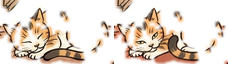
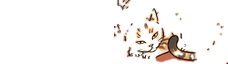
Fix Ming scriptorium pose layering

diff --git a/tools/review/index.html b/tools/review/index.html
@@ -49,8 +49,10 @@ function cardHtml(a){return `<article class="card" id="${cardId(a.key)}"><div cl
 async function decide(a,card,status){const note=$('textarea',card).value;const r=await fetch('/api/decision',{method:'POST',headers:{'content-type':'application/json'},body:JSON.stringify({key:a.key,status,note})});if(!r.ok){alert('儲存失敗');return}await load()}
 function setup(a){const card=$(`#${cardId(a.key)}`);if(!card)return;$('.approve',card).onclick=()=>decide(a,card,'approved');$('.reject',card).onclick=()=>decide(a,card,'rejected');const body=$('.card-body',card);if(a.kind==='bg')bgCard(a,body);else if(a.kind==='sprite')spriteCard(a,body);else if(a.kind==='pose')poseCard(a,body);else handCard(a,body)}
 const point=(ctx,p,color)=>{ctx.fillStyle=color;ctx.beginPath();ctx.arc(p.x,p.y,5,0,Math.PI*2);ctx.fill()};
+function renderPoseComposite(map,bg,img,actor,minPixels){
+const fw=img.width/2,fh=img.height,depth=actor.depth??actor.y,plate=document.createElement('canvas');plate.width=map.width;plate.height=map.height;const pc=plate.getContext('2d');pc.drawImage(bg,0,0,map.width,map.height);const platePixels=pc.getImageData(0,0,map.width,map.height).data,composite=document.createElement('canvas');composite.width=map.width;composite.height=map.height;const cc=composite.getContext('2d');cc.drawImage(bg,0,0,map.width,map.height);const drawForeground=f=>{cc.save();cc.beginPath();f.polygon.forEach((p,i)=>i?cc.lineTo(p.x,p.y):cc.moveTo(p.x,p.y));cc.closePath();cc.clip();cc.drawImage(bg,0,0,map.width,map.height);cc.restore()};const foregrounds=[...map.foreground].sort((a,b)=>a.baseline-b.baseline);foregrounds.filter(f=>f.baseline<=depth).forEach(drawForeground);cc.drawImage(img,fw,0,fw,fh,actor.x-fw/2,actor.y-fh,fw,fh);foregrounds.filter(f=>f.baseline>depth).forEach(drawForeground);const pixels=cc.getImageData(0,0,map.width,map.height).data,frame=document.createElement('canvas');frame.width=fw;frame.height=fh;const fc=frame.getContext('2d');fc.drawImage(img,0,0,fw,fh,0,0,fw,fh);const frame0=fc.getImageData(0,0,fw,fh).data;fc.clearRect(0,0,fw,fh);fc.drawImage(img,fw,0,fw,fh,0,0,fw,fh);const frame1=fc.getImageData(0,0,fw,fh).data;let idleOpaque=0,total=0,visible=0;for(let y=0;y<fh;y++)for(let x=0;x<fw;x++){const i=(y*fw+x)*4;if(frame0[i+3]>0)idleOpaque++;if(frame1[i+3]<128)continue;const sx=Math.round(actor.x-fw/2+x),sy=Math.round(actor.y-fh+y);if(sx<0||sy<0||sx>=map.width||sy>=map.height)continue;const j=(sy*map.width+sx)*4,sourceDelta=Math.max(Math.abs(frame1[i]-platePixels[j]),Math.abs(frame1[i+1]-platePixels[j+1]),Math.abs(frame1[i+2]-platePixels[j+2]));if(sourceDelta<=30)continue;total++;if(Math.max(Math.abs(pixels[j]-platePixels[j]),Math.abs(pixels[j+1]-platePixels[j+1]),Math.abs(pixels[j+2]-platePixels[j+2]))>0)visible++}const ok=idleOpaque===0&&total>=minPixels&&visible===total,preview=document.createElement('figure'),canvas=document.createElement('canvas'),caption=document.createElement('figcaption');preview.className='cell';canvas.width=240;canvas.height=Math.round(240*map.height/map.width);canvas.getContext('2d').drawImage(composite,0,0,canvas.width,canvas.height);caption.textContent=`${actor.id} · frame 1 ${visible}/${total} changed visible`;preview.append(canvas,caption);return{ok,text:`${ok?'PASS':'FAIL'} pose ${actor.id}: frame 0 ${idleOpaque} px · ${visible}/${total} changed pixels visible`,preview}}
 function bgCard(a,body){const d=a.data,m=d.map;body.innerHTML=`<div class="overlay">${[['walk','步行區'],['blocked','阻擋區'],['triggers','互動點'],['exits','出口'],['anchors','錨點'],['foreground','前景'],['actors','角色'],['stamps','玩家站位測試']].map(([k,l])=>`<label><input type="checkbox" data-layer="${k}" checked> ${l}</label>`).join('')}</div><div class="canvas-wrap"><canvas class="scene-canvas" width="${m.width}" height="${m.height}"></canvas></div><h3>互動站位／頁框硬檢查</h3><ul class="check-list stamp-checks"></ul><h3>原畫裁切 vs 遊戲比例（±2%）</h3><div class="scale-compare"></div>${d.manifest?.sourceImageUrl?`<h3>畫面來源與遊戲成品</h3><div class="source-pair"><figure><img src="${d.manifest.sourceImageUrl}"><figcaption>clean edit / source</figcaption></figure><figure><img src="${d.backgroundUrl}"><figcaption>遊戲使用圖</figcaption></figure></div>`:''}<details><summary>提示詞／清單註記／原始素材</summary><p>${esc(d.manifest?.comment||'')}</p><pre>${esc(d.manifest?.prompt||'找不到對應 manifest prompt')}</pre>${d.manifest?.rawUrl?`<a href="${d.manifest.rawUrl}">開啟 pano 原始素材</a>`:''}</details><p class="muted">比例沿用 Actor.sync：baseScale = cast.height / frameHeight；depth = scaleFar + (scaleNear-scaleFar) × t。站位沿用 Field.target 的 REACH=${d.reach} 探針與 FOOT footprint。</p>`;
-const canvas=$('canvas',body),ctx=canvas.getContext('2d'),bg=new Image(),actorImageCache=new Map(),checks=[];bg.onload=draw;bg.src=d.backgroundUrl;body.querySelectorAll('[data-layer]').forEach(x=>x.onchange=draw);
+const canvas=$('canvas',body),ctx=canvas.getContext('2d'),bg=new Image(),actorImageCache=new Map(),checks=[];const poseSection=document.createElement('section');poseSection.innerHTML='<h3>Pose frame 1 over plate and foregrounds</h3><div class="grid pose-composites"></div>';$('.stamp-checks',body).insertAdjacentElement('afterend',poseSection);const poseComposites=$('.pose-composites',poseSection);bg.onload=draw;bg.src=d.backgroundUrl;body.querySelectorAll('[data-layer]').forEach(x=>x.onchange=draw);
 const inside=(p,poly)=>{let yes=false;for(let i=0,j=poly.length-1;i<poly.length;j=i++){const a=poly[i],b=poly[j];if((a.y>p.y)!==(b.y>p.y)&&p.x<(b.x-a.x)*(p.y-a.y)/(b.y-a.y)+a.x)yes=!yes}return yes};
 const footOk=p=>m.walkable.some(poly=>[{x:p.x-14,y:p.y-5},{x:p.x+14,y:p.y-5},{x:p.x-14,y:p.y},{x:p.x+14,y:p.y},{x:p.x,y:p.y}].every(q=>inside(q,poly)))&&!m.blocked.some(poly=>inside(p,poly));
 function draw(){ctx.clearRect(0,0,canvas.width,canvas.height);ctx.drawImage(bg,0,0);const enabled=k=>$(`[data-layer="${k}"]`,body).checked;const bounds=m.walkable.flat().reduce((b,p)=>({top:Math.min(b.top,p.y),bottom:Math.max(b.bottom,p.y)}),{top:Infinity,bottom:-Infinity});checks.length=0;
@@ -64,12 +66,13 @@ const imageFor=id=>d.actors.find(x=>x.id===id),depth=y=>m.scaleFar+(m.scaleNear-
 const drawActor=(id,x,y,face='right',label=id,checkFoot=false)=>{const a=imageFor(id);if(!a?.imageUrl)return null;let img=actorImageCache.get(a.imageUrl);if(!img){img=new Image();img.onload=draw;img.src=a.imageUrl;actorImageCache.set(a.imageUrl,img)}if(!img.complete)return null;const pose=a.member.sheet==='pose',side=a.member.sheet==='side',cols=pose?2:side?3:4,rows=pose?1:side?2:4,fw=img.width/cols,fh=img.height/rows,row=pose?0:side?(face==='left'?0:1):({down:0,left:1,right:2,up:3}[face]??0),frame=1,scale=pose?1:(a.member.height||110)/fh*depth(y),oy=pose?1:.96,sx=frame*fw,sy=row*fh;ctx.drawImage(img,sx,sy,fw,fh,x-fw*scale/2,y-fh*scale*oy,fw*scale,fh*scale);let c=document.createElement('canvas');c.width=fw;c.height=fh;const q=c.getContext('2d');q.drawImage(img,sx,sy,fw,fh,0,0,fw,fh);const pix=q.getImageData(0,0,fw,fh).data;let l=fw,t=fh,r=-1,b=-1;for(let yy=0;yy<fh;yy++)for(let xx=0;xx<fw;xx++)if(pix[(yy*fw+xx)*4+3]>8){l=Math.min(l,xx);t=Math.min(t,yy);r=Math.max(r,xx);b=Math.max(b,yy)}const fit=r>=0&&x+(l-fw/2)*scale>=10&&x+(r+1-fw/2)*scale<=m.width-10&&y-fh*scale*oy+t*scale>=10&&y-fh*scale*oy+(b+1)*scale<=m.height-10,feet=!checkFoot||footOk({x,y});checks.push({label,ok:fit&&feet,text:`${fit?'PASS':'FAIL'} frame · ${feet?'PASS':'FAIL'} feet · ${label}`});return {fit,feet}};
 if(enabled('actors')){m.actors.forEach(a=>drawActor(a.id,a.x,a.y,a.face,`actor ${a.id}`,false));const p=m.anchors.player_start||m.anchors.start||{x:m.width/2,y:bounds.bottom};drawActor(m.player,p.x,p.y,'right','player at start',true)}
 if(enabled('stamps'))d.stampPoints.forEach(p=>{const result=p.valid?drawActor(m.player,p.x,p.y,p.face,p.label,true):null;if(!p.valid||!result?.fit||!result?.feet){ctx.strokeStyle='#ff3d34';ctx.lineWidth=4;ctx.beginPath();ctx.moveTo(p.x-9,p.y-9);ctx.lineTo(p.x+9,p.y+9);ctx.moveTo(p.x+9,p.y-9);ctx.lineTo(p.x-9,p.y+9);ctx.stroke();ctx.fillStyle='#ff625b';ctx.fillText(`✕ ${p.label}`,p.x+10,p.y-8)}else{ctx.fillStyle='#fff';ctx.fillText(`${p.label} ${({up:'↑',down:'↓',left:'←',right:'→'})[p.face]}`,p.x+7,p.y-8)}});
+poseComposites.replaceChildren();for(const actor of m.actors){const aInfo=imageFor(actor.id);if(aInfo?.member?.sheet!=='pose'||!aInfo.imageUrl)continue;let img=actorImageCache.get(aInfo.imageUrl);if(!img){img=new Image();img.onload=draw;img.src=aInfo.imageUrl;actorImageCache.set(aInfo.imageUrl,img)}if(!img.complete||!img.naturalWidth)continue;const result=renderPoseComposite(m,bg,img,actor,d.poseMinChangedPixels??100);checks.push({ok:result.ok,text:result.text});poseComposites.append(result.preview)}
 if(m.frameInset){ctx.fillStyle='#efe3c4';ctx.fillRect(0,0,m.width,10);ctx.fillRect(0,m.height-10,m.width,10);ctx.fillRect(0,10,10,m.height-20);ctx.fillRect(m.width-10,10,10,m.height-20);ctx.strokeStyle='#2a1d12';ctx.lineWidth=1;ctx.strokeRect(10.5,10.5,m.width-21,m.height-21)}
 $('.stamp-checks',body).innerHTML=checks.map(c=>`<li class="${c.ok?'pass':'fail'}">${c.text}</li>`).join('');
 }
 if(d.paintedFigures?.length)for(const f of d.paintedFigures){const fig=document.createElement('figure'),cap=document.createElement('figcaption'),strip=document.createElement('div'),raw=new Image(),sprite=new Image();fig.className='scale-figure';cap.textContent=`${f.name} · painted ${f.height}px`;strip.className='scale-strip';raw.onload=()=>{const c=document.createElement('canvas'),ctx=c.getContext('2d'),[x,y,r,b]=f.figure,w=r-x,h=b-y;c.width=Math.round(w*210/h);c.height=210;ctx.drawImage(raw,x,y,w,h,0,0,c.width,c.height);strip.append(c)};raw.src=f.sourceUrl;sprite.onload=()=>{const c=document.createElement('canvas'),ctx=c.getContext('2d'),fw=sprite.width/3,fh=sprite.height/2,scale=f.member.height/fh;c.width=Math.round(fw*scale);c.height=Math.round(fh*scale);ctx.drawImage(sprite,fw,fh,fw,fh,0,0,c.width,c.height);strip.append(c);const pixels=ctx.getImageData(0,0,c.width,c.height).data;let top=c.height,bottom=-1;for(let y=0;y<c.height;y++)for(let x=0;x<c.width;x++)if(pixels[(y*c.width+x)*4+3]>8){top=Math.min(top,y);bottom=Math.max(bottom,y)}const alpha=bottom<top?0:bottom-top+1,ok=Math.abs(alpha-f.height)<=f.height*.02;cap.textContent+=` · rendered ${alpha.toFixed(1)}px ${ok?'PASS':'FAIL'}`;cap.className=ok?'pass':'fail'};sprite.src=f.spriteUrl;fig.append(strip,cap);$('.scale-compare',body).append(fig)}
 }
-function poseCard(a,body){const d=a.data;body.innerHTML='<p>固定 pose sheet：frame 0 原畫、frame 1 微動；圖像不縮放、不行走。</p><div class="grid pose-frames"></div>';const img=new Image();img.onload=()=>{const fw=img.width/2,fh=img.height;for(let i=0;i<2;i++){const fig=document.createElement('div'),c=document.createElement('canvas');fig.className='cell';c.width=fw*3;c.height=fh*3;c.className='checker';c.getContext('2d').drawImage(img,i*fw,0,fw,fh,0,0,c.width,c.height);fig.append(c,document.createElement('br'),document.createTextNode(`frame ${i}`));$('.pose-frames',body).append(fig)}};img.src=d.imageUrl}
+function poseCard(a,body){const d=a.data;body.innerHTML='<p>Frame 0 is transparent; the plate supplies the resting pose. Frame 1 overlays only changed pixels.</p><div class="grid pose-frames"></div>';const img=new Image();img.onload=()=>{const fw=img.width/2,fh=img.height;for(let i=0;i<2;i++){const fig=document.createElement('div'),c=document.createElement('canvas');fig.className='cell';c.width=fw*3;c.height=fh*3;c.className='checker';c.getContext('2d').drawImage(img,i*fw,0,fw,fh,0,0,c.width,c.height);fig.append(c,document.createElement('br'),document.createTextNode(`frame ${i}`));$('.pose-frames',body).append(fig)}};img.src=d.imageUrl}
 function spriteCard(a,body){const d=a.data,m=d.member;body.innerHTML=`<p>影格語義：${m.sheet==='side'?'左向／右向':'下／左／右／上'}；動畫序列 [0,1,2,1]，${d.frameRate} fps；閒置影格 1。</p><div class="grid animations"></div><h3>全部影格（3×）</h3><div class="grid cells"></div><h3>自動檢查</h3><ul class="check-list checks"></ul><h3>同畫風角色遊戲尺寸比較</h3><div class="compare"></div>`;
 const img=new Image();img.onload=()=>{const cols=m.sheet==='side'?3:4,rows=m.sheet==='side'?2:4,fw=img.width/cols,fh=img.height/rows,grid=$('.cells',body),checks=[];let min=Infinity,max=0,bases=[],empty=0;
 const sequence=[0,1,2,1];for(let r=0;r<rows;r++){const preview=document.createElement('div'),canv=document.createElement('canvas'),ctx=canv.getContext('2d');preview.className='cell';canv.width=fw*2;canv.height=fh*2;canv.className='checker';preview.append(canv,document.createElement('br'),document.createTextNode(`${m.sheet==='side'?(r===0?'left':'right'):['down','left','right','up'][r]} · 動畫`));$('.animations',body).append(preview);let frame=0;const drawFrame=()=>{ctx.clearRect(0,0,canv.width,canv.height);ctx.drawImage(img,sequence[frame]*fw,r*fh,fw,fh,0,0,canv.width,canv.height);frame=(frame+1)%sequence.length};drawFrame();setInterval(drawFrame,1000/d.frameRate)}

diff --git a/tools/review/server.ts b/tools/review/server.ts
@@ -221,6 +221,12 @@ function cardData(asset: ReviewAsset): Record<string, unknown> {
   if (asset.kind === 'bg') {
     const map = asset.data.map as FieldMap;
     const mapId = String(asset.data.mapId);
+    const scene = mapId === 'ming_scriptorium'
+      ? JSON.parse(readFileSync(join(ROOT, 'assets/scenes/ming_scriptorium.yaml'), 'utf8')) as {
+        pose_min_changed_pixels: number;
+        figures: Record<string, { figure: number[]; height_art: number; feet_art: [number, number] }>;
+      }
+      : null;
     const actors = [...new Set([map.player, ...map.actors.map((actor) => actor.id)])].map((id) => ({
       id, member: cast[id], imageUrl: fileUrl(`public/art/${cast[id]?.art ?? map.art ?? 'retro'}/${cast[id]?.sprite}.png`),
     }));
@@ -231,10 +237,9 @@ function cardData(asset: ReviewAsset): Record<string, unknown> {
       backgroundUrl: fileUrl(asset.path),
       reach: REACH,
       stampPoints: stampPoints(map),
-      paintedFigures: mapId === 'ming_scriptorium'
-        ? Object.entries((JSON.parse(readFileSync(join(ROOT, 'assets/scenes/ming_scriptorium.yaml'), 'utf8')) as {
-          figures: Record<string, { figure: number[]; height_art: number; feet_art: [number, number] }>;
-        }).figures).map(([id, figure]) => ({
+      poseMinChangedPixels: scene?.pose_min_changed_pixels ?? 100,
+      paintedFigures: scene
+        ? Object.entries(scene.figures).map(([id, figure]) => ({
           id, figure: figure.figure, height: figure.height_art, feet: figure.feet_art, name: cast[id]?.name, member: cast[id],
           spriteUrl: fileUrl(`public/art/${cast[id]?.art ?? map.art}/${cast[id]?.sprite}.png`),
           sourceUrl: fileUrl('assets/raw/ming/scriptorium_pano.png'),

diff --git a/tests/image.test.ts b/tests/image.test.ts
@@ -1,4 +1,6 @@
 import { describe, expect, it } from 'vitest';
+import { readFileSync } from 'node:fs';
+import { fileURLToPath } from 'node:url';
 import sharp from 'sharp';
 import { runPost } from '../tools/lib/image.ts';
 
@@ -33,4 +35,31 @@ describe('ground-line removal', () => {
     expect(data[(95 * width + 50) * 4 + 3]).toBe(0);
     expect(data[(88 * width + 30) * 4 + 3]).toBe(255);
   });
+});
+
+describe('Ming pose overlays', () => {
+  const scene = JSON.parse(readFileSync(fileURLToPath(new URL('../assets/scenes/ming_scriptorium.yaml', import.meta.url)), 'utf8')) as {
+    pose_min_changed_pixels: number;
+  };
+
+  for (const id of ['linu', 'monk_left', 'monk_right']) {
+    it(`${id} has an empty frame 0 and enough changed pixels in frame 1`, async () => {
+      const path = fileURLToPath(new URL(`../public/art/ming/pose_${id}.png`, import.meta.url));
+      const { data, info } = await sharp(path).ensureAlpha().raw().toBuffer({ resolveWithObject: true });
+      const frameWidth = info.width / 2;
+      expect(Number.isInteger(frameWidth)).toBe(true);
+      let frame0Opaque = 0;
+      let frame1Opaque = 0;
+      for (let y = 0; y < info.height; y++) {
+        for (let x = 0; x < frameWidth; x++) {
+          const frame0Alpha = data[(y * info.width + x) * info.channels + 3];
+          const frame1Alpha = data[(y * info.width + frameWidth + x) * info.channels + 3];
+          if (frame0Alpha > 0) frame0Opaque++;
+          if (frame1Alpha >= 128) frame1Opaque++;
+        }
+      }
+      expect(frame0Opaque).toBe(0);
+      expect(frame1Opaque).toBeGreaterThanOrEqual(scene.pose_min_changed_pixels);
+    });
+  }
 });

diff --git a/src/engine/map.ts b/src/engine/map.ts
@@ -9,7 +9,7 @@ interface TiledObject {
 interface TiledLayer { type: string; name: string; objects?: TiledObject[] }
 interface TiledMap { width: number; height: number; tilewidth: number; tileheight: number; properties?: TiledProperty[]; layers: TiledLayer[] }
 
-export interface MapActor { id: string; x: number; y: number; knot: string | null; face: string }
+export interface MapActor { id: string; x: number; y: number; knot: string | null; face: string; depth?: number }
 /** `face`: the direction the player must face to use it (i.e. the side it is used from). */
 export interface MapTrigger { id: string; x: number; y: number; width: number; height: number; knot: string; auto: boolean; face: string | null; hidden: boolean; actor?: string; icon?: string; sfx?: string }
 
@@ -102,9 +102,13 @@ export function parseMap(raw: string | TiledMap): FieldMap {
       };
     }),
     anchors: Object.fromEntries(layer('anchors').map((o) => [o.name, { x: o.x, y: o.y }])),
-    actors: layer('actors').map((o) => ({
-      id: o.name, x: o.x, y: o.y, knot: (prop(o, 'knot') as string) ?? null, face: (prop(o, 'face') as string) ?? 'down',
-    })),
+    actors: layer('actors').map((o) => {
+      const depth = prop(o, 'depth');
+      return {
+        id: o.name, x: o.x, y: o.y, knot: (prop(o, 'knot') as string) ?? null, face: (prop(o, 'face') as string) ?? 'down',
+        depth: depth == null ? undefined : Number(depth),
+      };
+    }),
     triggers: triggers.filter((o) => !prop(o, 'exit')).map((o) => ({
       ...rect(o),
       knot: String(prop(o, 'knot') ?? o.name), auto: prop(o, 'auto') === true, face: (prop(o, 'face') as string) ?? null,

diff --git a/src/game/Actor.ts b/src/game/Actor.ts
@@ -13,6 +13,7 @@ export class Actor {
   private readonly mirrorRight: boolean;
   private readonly baseScale: number;
   private depth = { enabled: false, top: 0, bottom: 1, far: 1, near: 1 };
+  private renderDepth?: number;
   private rate = 1;
   private readonly poseCycle?: PoseCycle;
 
@@ -70,6 +71,11 @@ export class Actor {
     this.sync();
   }
 
+  setRenderDepth(depth?: number) {
+    this.renderDepth = depth;
+    this.sync();
+  }
+
   faceToward(p: Vec) {
     this.setFace(facingOf(p.x - this.sprite.x, p.y - this.sprite.y, this.face));
   }
@@ -103,7 +109,7 @@ export class Actor {
   }
 
   private sync() {
-    this.sprite.setDepth(this.sprite.y);
+    this.sprite.setDepth(this.renderDepth ?? this.sprite.y);
     if (this.pose) {
       this.sprite.setScale(1);
       return;

diff --git a/tests/engine.test.ts b/tests/engine.test.ts
@@ -62,6 +62,22 @@ describe('map properties', () => {
     });
   });
 
+  it('parses an explicit actor render depth', () => {
+    const fixture = {
+      width: 10, height: 8, tilewidth: 24, tileheight: 24,
+      layers: [{
+        type: 'objectgroup', name: 'actors',
+        objects: [{
+          id: 1, name: 'linu', x: 12, y: 34, point: true,
+          properties: [{ name: 'depth', value: '467' }],
+        }],
+      }],
+    };
+    expect(parseMap(fixture).actors).toEqual([
+      { id: 'linu', x: 12, y: 34, knot: null, face: 'down', depth: 467 },
+    ]);
+  });
+
   it('binds an interaction trigger to its pose actor', () => {
     const fixture = {
       width: 10, height: 8, tilewidth: 24, tileheight: 24,

diff --git a/src/game/scenes/Field.ts b/src/game/scenes/Field.ts
@@ -595,6 +595,7 @@ export class FieldScene extends Phaser.Scene implements StoryHost {
     for (const a of m.actors) {
       const saved = this.mapState[this.mapId]?.[a.id];
       const actor = this.spawn(a.id, saved ?? a);
+      actor.setRenderDepth(a.depth);
       actor.setFace((saved?.face ?? a.face) as Dir);
       if (saved) actor.sprite.setVisible(saved.visible);
     }

diff --git a/tools/maps/build-ming.py b/tools/maps/build-ming.py
@@ -52,9 +52,9 @@ maps = {
         {"player_start": (125, 350), "from_street": (125, 350), "debate_spot": (465, 452),
          "behind_chest": (350, 336), "left_extreme": (125, 350), "right_extreme": (835, 350)},
         [pt("kuang", 696, 452, {"knot": "ming_kuang", "face": "left"}),
-         pt("monk_left", *pose_actor["monk_left"]),
-         pt("monk_right", *pose_actor["monk_right"]),
-         pt("linu", *pose_actor["linu"])],
+         pt("monk_left", *pose_actor["monk_left"], {"depth": str(scene["poses"]["monk_left"]["depth"])}),
+         pt("monk_right", *pose_actor["monk_right"], {"depth": str(scene["poses"]["monk_right"]["depth"])}),
+         pt("linu", *pose_actor["linu"], {"depth": str(scene["poses"]["linu"]["depth"])})],
         [rect("to_street", 0, 315, 140, 65, {"exit": "ming_canal_street:from_scriptorium", "face": "left"}),
          rect("ming_reading_table", 430, 333, 220, 38, {"knot": "ming_reading_table", "face": "up"}),
          rect("ming_monk_left", 225, 286, 40, 30, {"knot": "ming_monk_left", "face": "up", "actor": "monk_left"}),
@@ -62,7 +62,13 @@ maps = {
          rect("ming_sutra_chest", 145, 319, 95, 20, {"knot": "ming_sutra_chest", "face": "right"}),
          rect("ming_linu", 255, 319, 80, 20, {"knot": "ming_linu", "face": "right", "actor": "linu"})],
         [amb("motes", 0, 0, 960, 380)],
-        foreground=[([(144, 348), (160, 330), (380, 330), (398, 348), (398, 456), (380, 466), (160, 466), (144, 452)], 466)],
+        foreground=[
+            ([(144, 348), (160, 330), (380, 330), (398, 348), (398, 456), (380, 466), (160, 466), (144, 452)], 466),
+            ([(212, 338), (216, 328), (225, 320), (234, 314), (241, 309), (248, 313), (253, 320),
+              (259, 311), (267, 307), (279, 305), (292, 307), (304, 311), (317, 318), (326, 326),
+              (332, 337), (330, 348), (323, 357), (313, 362), (300, 365), (285, 363), (270, 361),
+              (258, 359), (247, 364), (235, 364), (224, 360), (218, 352)], 466),
+        ],
         intro="ming_scriptorium_intro", scaleFar="1", scaleNear="1", frameInset="10"),
 }
 for mid, m in maps.items():

diff --git a/tools/art/scene-cut.py b/tools/art/scene-cut.py
@@ -45,24 +45,24 @@ def build_pose(spec: dict, plate: Image.Image, key: str, data: dict, scale: floa
     edited_roi = box_crop(edit, local_box)
     plate_source = box_crop(plate, roi)
     mask = ImageChops.difference(edited_roi, plate_source).convert("L").point(lambda p: 255 if p > 30 else 0)
-    mask = mask.filter(ImageFilter.MedianFilter(5)).filter(ImageFilter.MaxFilter(13)).filter(ImageFilter.GaussianBlur(3))
+    mask = mask.filter(ImageFilter.MedianFilter(5)).filter(ImageFilter.MaxFilter(5)).filter(ImageFilter.GaussianBlur(1.5))
 
     x = round(roi[0] * scale)
     y = round(roi[1] * scale)
     right = round(roi[2] * scale)
     bottom = round(roi[3] * scale)
     frame_size = (right - x, bottom - y)
-    art_roi = plate_source.resize(frame_size, Image.Resampling.LANCZOS)
     edit_art = edited_roi.resize(frame_size, Image.Resampling.LANCZOS)
     alpha = mask.resize(frame_size, Image.Resampling.LANCZOS)
-    frames = []
-    for source in (art_roi, edit_art):
-        frame = source.convert("RGBA")
-        frame.putalpha(alpha)
-        frames.append(frame)
+    changed_pixels = alpha.point(lambda value: 255 if value >= 128 else 0).histogram()[255]
+    if changed_pixels < spec["pose_min_changed_pixels"]:
+        raise ValueError(f"{key} pose has only {changed_pixels} changed opaque pixels")
+    frame0 = Image.new("RGBA", frame_size, (0, 0, 0, 0))
+    frame1 = edit_art.convert("RGBA")
+    frame1.putalpha(alpha)
     sheet = Image.new("RGBA", (frame_size[0] * 2, frame_size[1]), (0, 0, 0, 0))
-    sheet.paste(frames[0], (0, 0))
-    sheet.paste(frames[1], (frame_size[0], 0))
+    sheet.paste(frame0, (0, 0))
+    sheet.paste(frame1, (frame_size[0], 0))
     sheet.save(OUT_DIR / f"pose_{key}.png", optimize=False)
 
     width, height = right - x, bottom - y
@@ -70,6 +70,8 @@ def build_pose(spec: dict, plate: Image.Image, key: str, data: dict, scale: floa
         "origin": [x, y],
         "frame": [width, height],
         "actor": [x + width // 2, bottom],
+        "depth": data["depth"],
+        "changedPixels": changed_pixels,
         "pano_roi": roi,
     }
 
